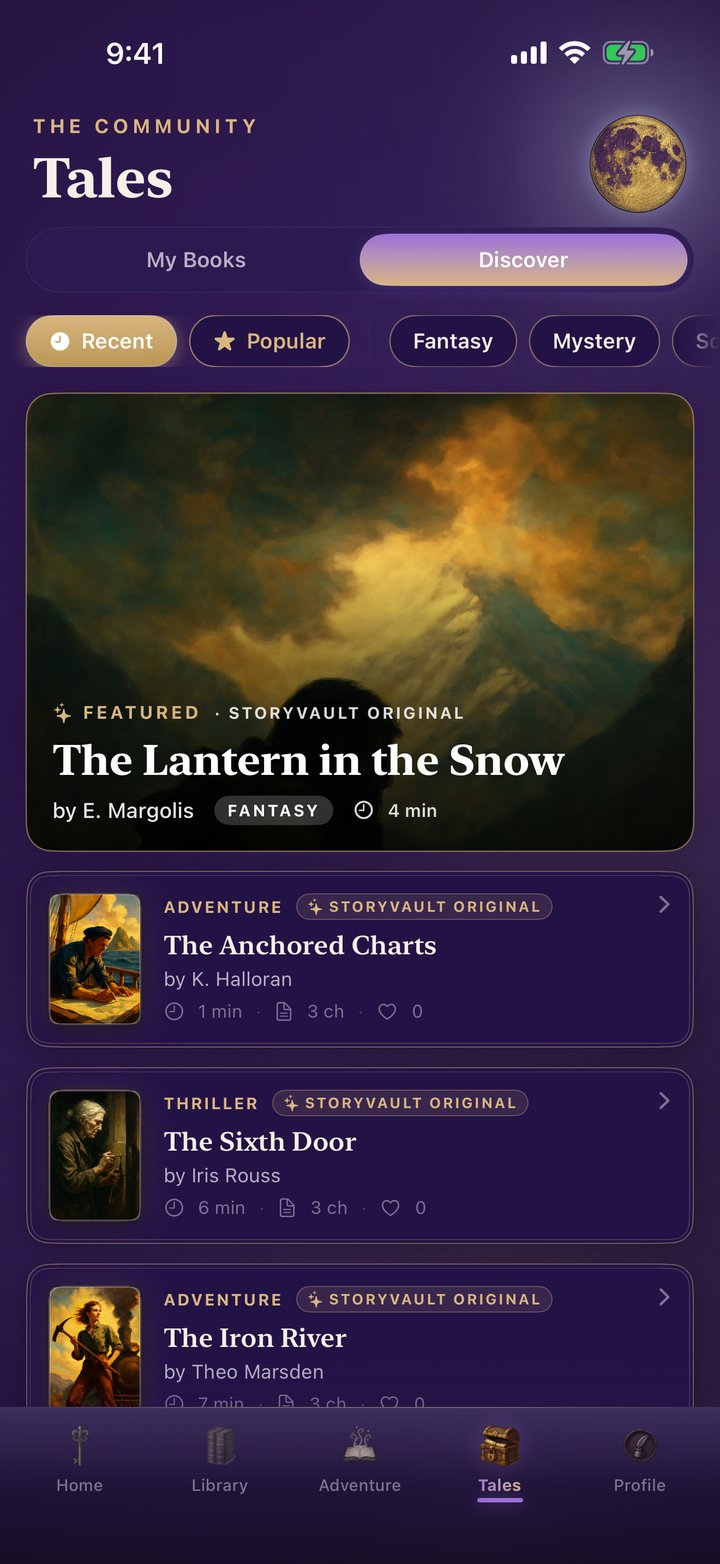
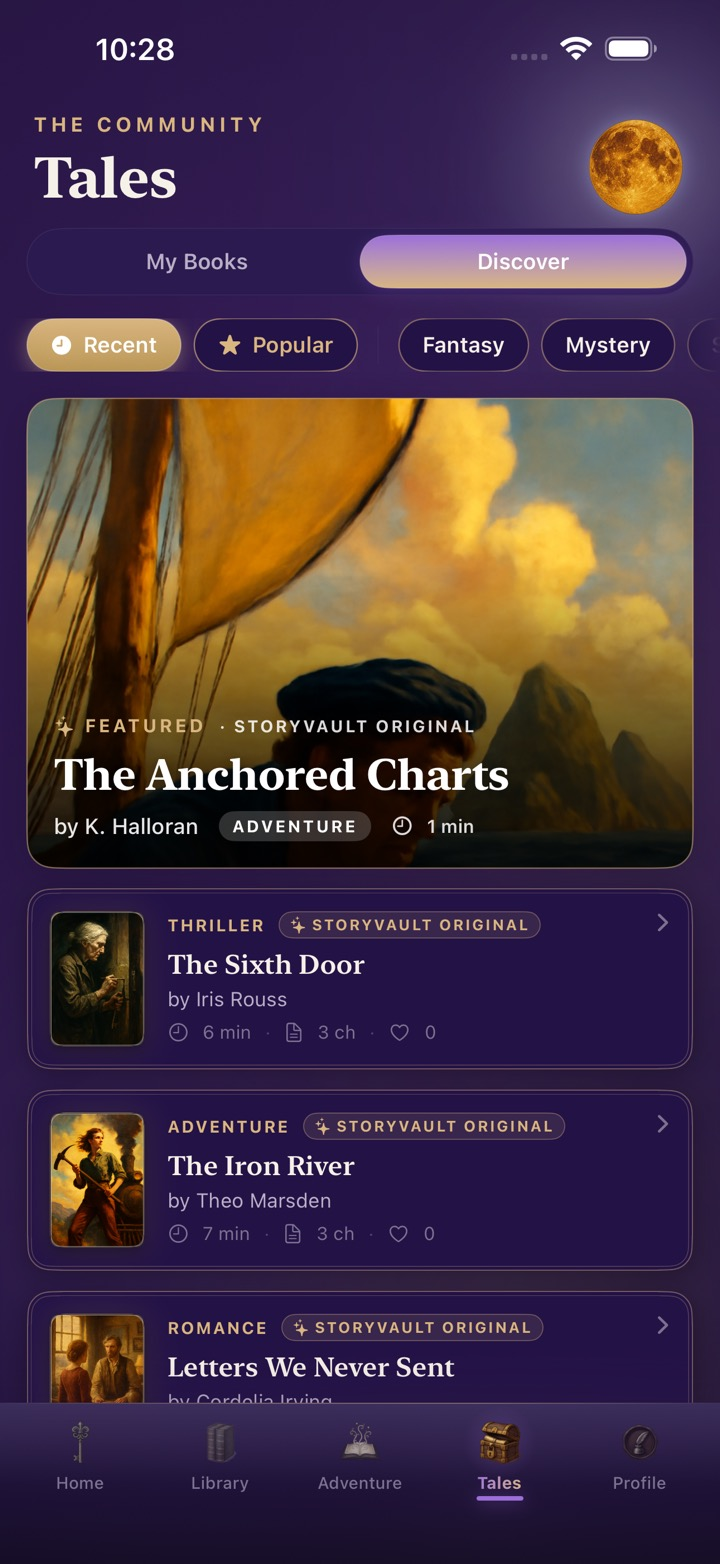
Fresh dark-mode screenshots: profile (Alex Rivera, Pro, unlocked achievements), tales, home
Regenerated from the app's reproducible SV_SHOT_DEMO capture harness:
- profile-dark: signed-in Pro "Alex Rivera" (no longer "Daniel"/"Guest"),
  4 books / 3 adventures / 8 unlocked, recent-achievement trophies.
- tales-dark: community Discover feed with featured StoryVault Original.
- home-dark: literary home by night.
Update the Tales alt text to the current featured story.

diff --git a/index.html b/index.html
@@ -1387,7 +1387,7 @@
         <div class="screen-card">
           <div class="device-stage">
             <div class="device">
-              <img src="screenshots/tales-dark.jpg" width="720" height="1564" alt="Tales in dark mode — community Discover feed with featured StoryVault Originals like The Lantern in the Snow" loading="lazy">
+              <img src="screenshots/tales-dark.jpg" width="720" height="1564" alt="Tales in dark mode — community Discover feed with featured StoryVault Originals like The Anchored Charts" loading="lazy">
             </div>
           </div>
           <div class="screen-label">